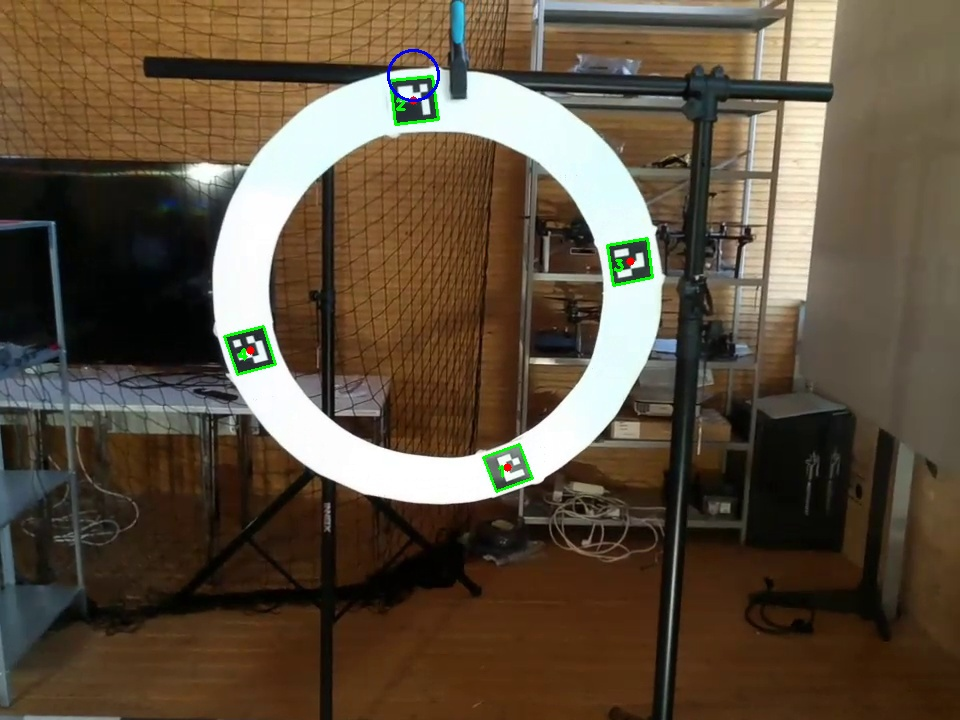
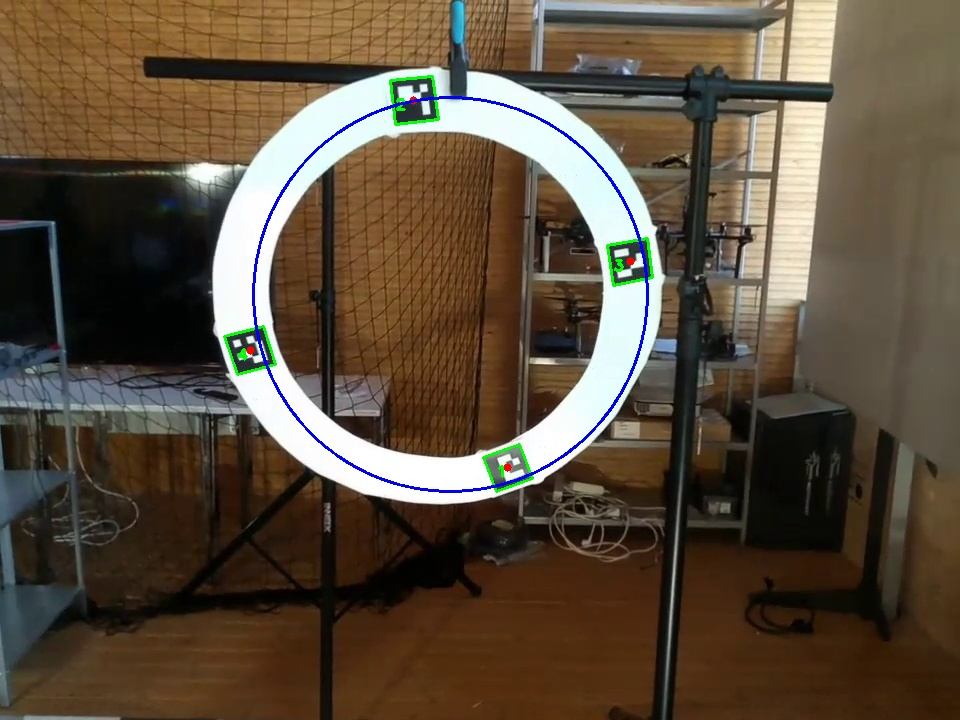
Draw circle based on 4 markers
Changed the code a bit (tentative) so it can now draw a relatively accurate circle if all four markers are identified.

Note that this accuracy will drop substantially if a frame is calculated where only three markers are seen.

(e.g. use frame0025 for four markers, and frame0028 for three markers to see the difference)

diff --git a/src/recognize_qr_gate.py b/src/recognize_qr_gate.py
@@ -1,5 +1,5 @@
 #!/usr/bin/env python
-  
+
 '''
 Welcome to the ArUco Marker Detector!
   
@@ -10,6 +10,7 @@ This program:
 from __future__ import print_function # Python 2/3 compatibility
 import cv2 # Import the OpenCV library
 import numpy as np # Import Numpy library
+import math
  
 # Project: ArUco Marker Detector
 # Date created: 12/18/2021
@@ -75,6 +76,8 @@ def main():
         ids = ids.flatten()
 
     # Loop over the detected ArUco corners
+    centre_circle_x = []
+    centre_circle_y = []
     for (marker_corner, marker_id) in zip(corners, ids):
     
         # Extract the marker corners
@@ -109,29 +112,36 @@ def main():
         image_size = frame.shape
         size_x = np.abs(top_right[0] - top_left[0])
         size_y = np.abs(top_left[1] - bottom_left[1])
-        radius = 5 * size_x
 
-        centre_circle_x = []
-        centre_circle_y = []
 
-        if marker_id == 1:  # bottom marker
-            centre_circle_x.append(center_x)
-            centre_circle_y.append(center_y + radius)
-        elif marker_id == 2:  # top marker
-            centre_circle_x.append(center_x)
-            centre_circle_y.append(center_y - radius)
-        elif marker_id == 3:  # right
-            centre_circle_x.append(center_x + radius)
-            centre_circle_y.append(center_y)
-        elif marker_id == 4:  # left
-            centre_circle_x.append(center_x - radius)
-            centre_circle_y.append(center_y)
+        centre_circle_x.append(center_x)
+        centre_circle_y.append(center_y)
+
+        # if marker_id == 1:  # bottom marker
+        #     centre_circle_x.append(center_x)
+        #     centre_circle_y.append(center_y + radius)
+        # elif marker_id == 2:  # top marker
+        #     centre_circle_x.append(center_x)
+        #     centre_circle_y.append(center_y - radius)
+        # elif marker_id == 3:  # right
+        #     centre_circle_x.append(center_x + radius)
+        #     centre_circle_y.append(center_y)
+        # elif marker_id == 4:  # left
+        #     centre_circle_x.append(center_x - radius)
+        #     centre_circle_y.append(center_y)
 
     centre_circle_x = int(np.round(np.mean(centre_circle_x)))
     centre_circle_y = int(np.round(np.mean(centre_circle_y)))
+    #Radius of the end circle is calculated by getting the distance between the center of the circle and the center of the last detected marker
+    #Because the center of the last detected marker is not on the edge of the inner circle
+    #We can extract half of the distance of one of the sides of the marker to get a more accurate result
+    radius = int(np.round(math.sqrt(((center_x-centre_circle_x)**2)+((center_y-centre_circle_y)**2))))
+    half_size_edge = int(np.round(math.sqrt(((top_right[0] - top_left[0])**2)+((top_right[1]-top_left[1]))**2))/ 2)
+    radius = radius - half_size_edge
+    print(radius)
     cv2.circle(frame, (centre_circle_x, centre_circle_y), radius, color=(255, 0, 0), thickness=2)
 
-    cv2.imwrite('../images/detected/detected.jpg', frame)
+    cv2.imwrite('../images/detected/detected3.jpg', frame)
     # Display the resulting frame
     cv2.imshow('frame', frame)
     cv2.waitKey(0)
